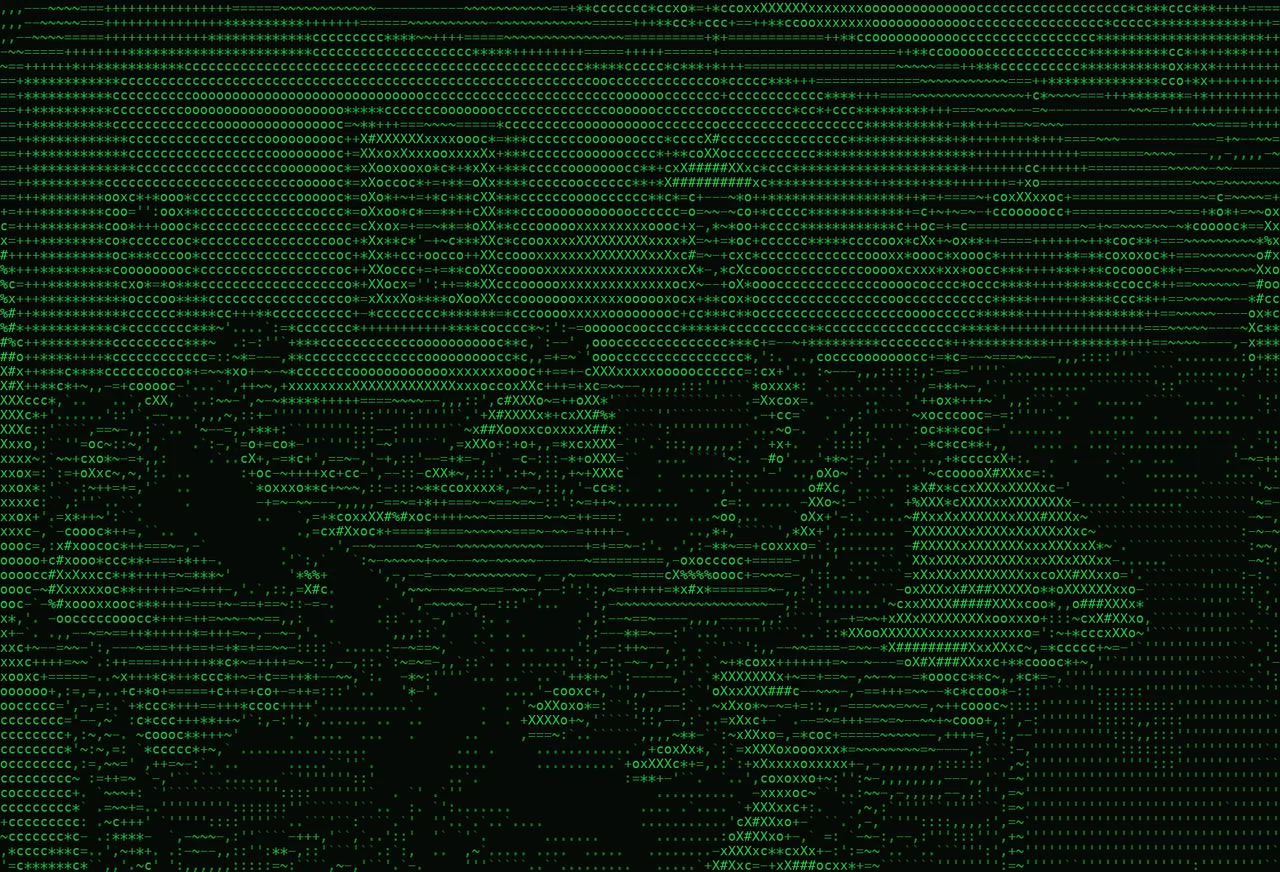
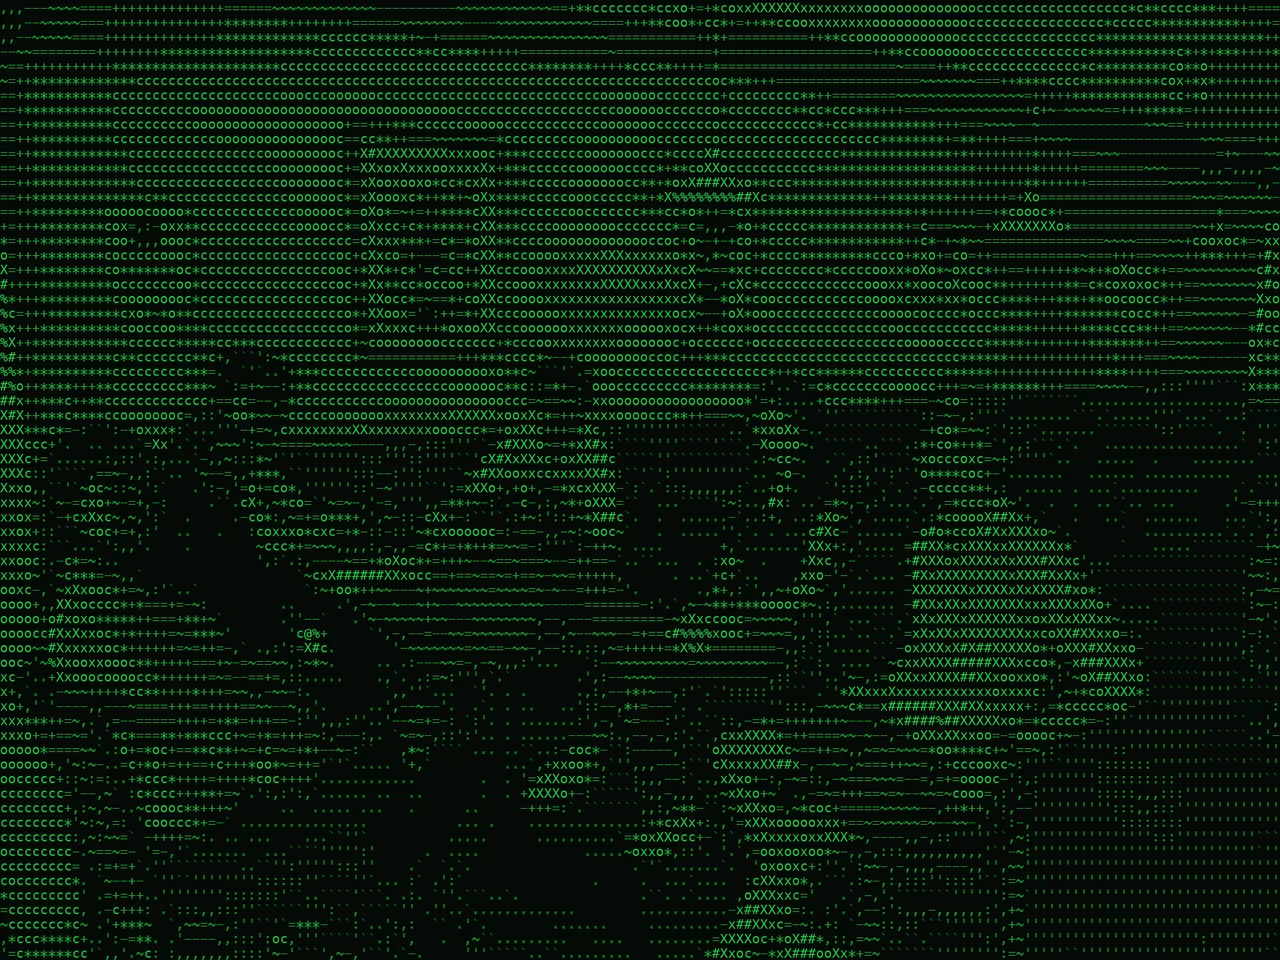
fix(vt-discussion): cap turtle speed (max step), match code image to 4:3 (no crossfade shift), larger caption
- Hard MAX_STEP on the damped drive so a fully-scrolled left can't make the turtle
  sprint to the end; it advances at a controlled max pace.
- Regenerate the green code image at exact 4:3 so it and the colour photo slice
  identically -> no positional shift on the code->colour transition.
- Bump caption font-size.

diff --git a/projects/vt-discussion/index.html b/projects/vt-discussion/index.html
@@ -51,7 +51,7 @@
     /* caption is horizontal (not tilted with the frame) */
     .vt-cap {
       margin-top:11%;                 /* clear the tilted frame's lowest corner; scales with frame width */
-      font:.64rem/1 -apple-system,BlinkMacSystemFont,"Segoe UI",sans-serif; letter-spacing:.14em;
+      font:.74rem/1 -apple-system,BlinkMacSystemFont,"Segoe UI",sans-serif; letter-spacing:.14em;
       text-transform:lowercase; color:var(--text-tertiary); opacity:0; transition:opacity .5s;
     }
 
@@ -185,7 +185,8 @@
     if(isStatic){ draw(1); turtle.style.visibility='hidden'; }
     else {
       var shown=0;                                   // damped: ease toward scroll target so fast scrolls don't teleport
-      function loop(){ var t=target(); shown += (t-shown)*0.2; if(Math.abs(t-shown)<0.0004) shown=t; draw(shown); requestAnimationFrame(loop); }
+      function loop(){ var t=target(); var d=(t-shown)*0.2, m=0.01; if(d>m)d=m; else if(d<-m)d=-m; shown+=d;
+        if(Math.abs(t-shown)<0.0004) shown=t; draw(shown); requestAnimationFrame(loop); }
       requestAnimationFrame(loop);
     }
   })();
